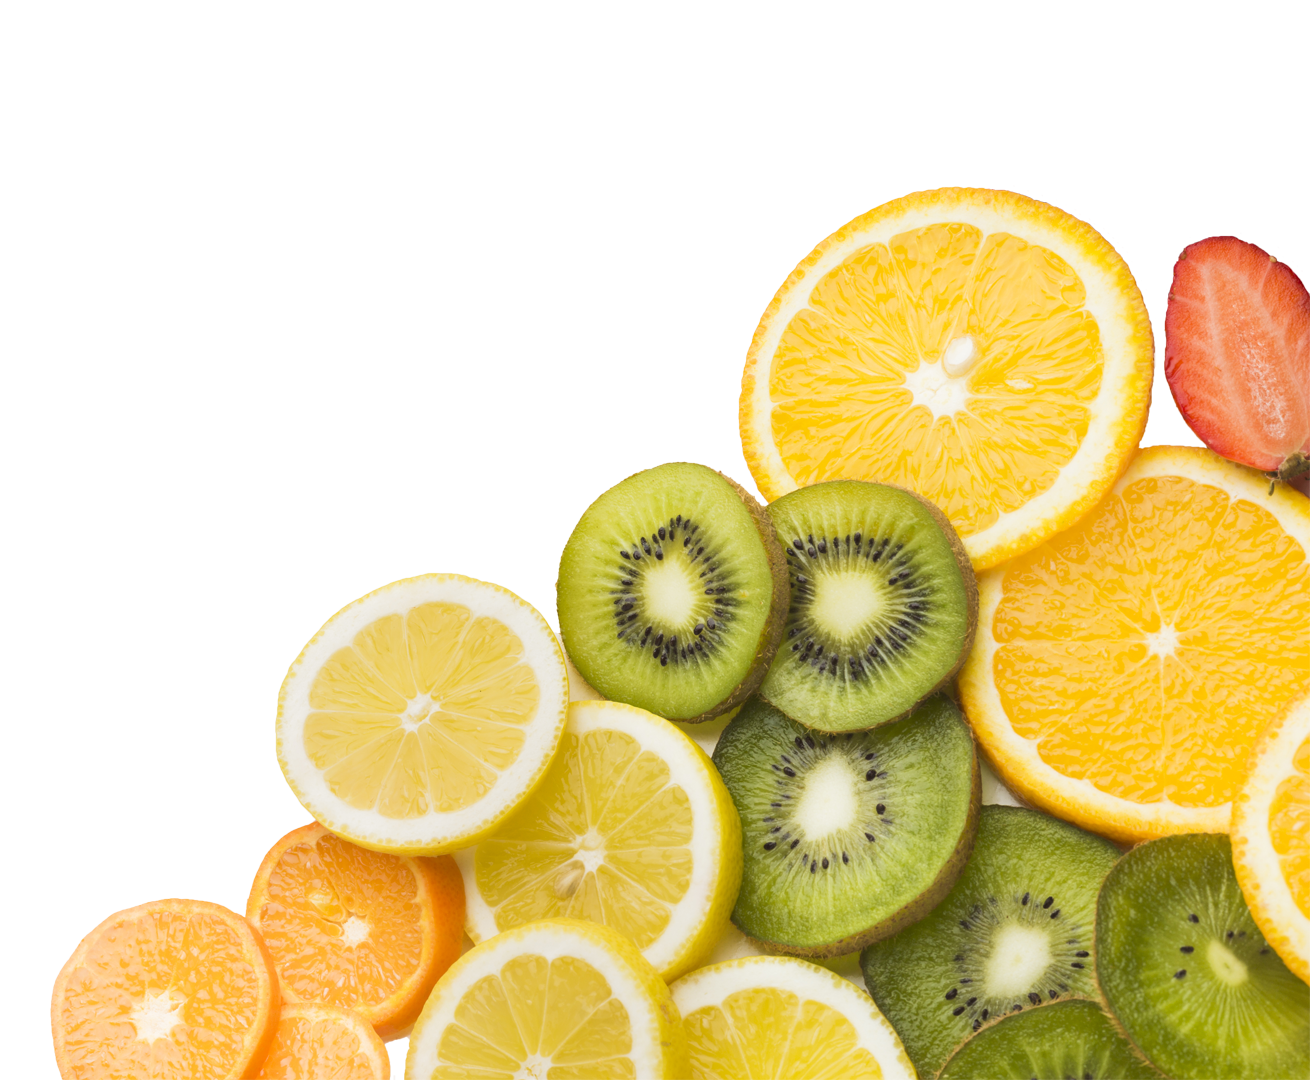
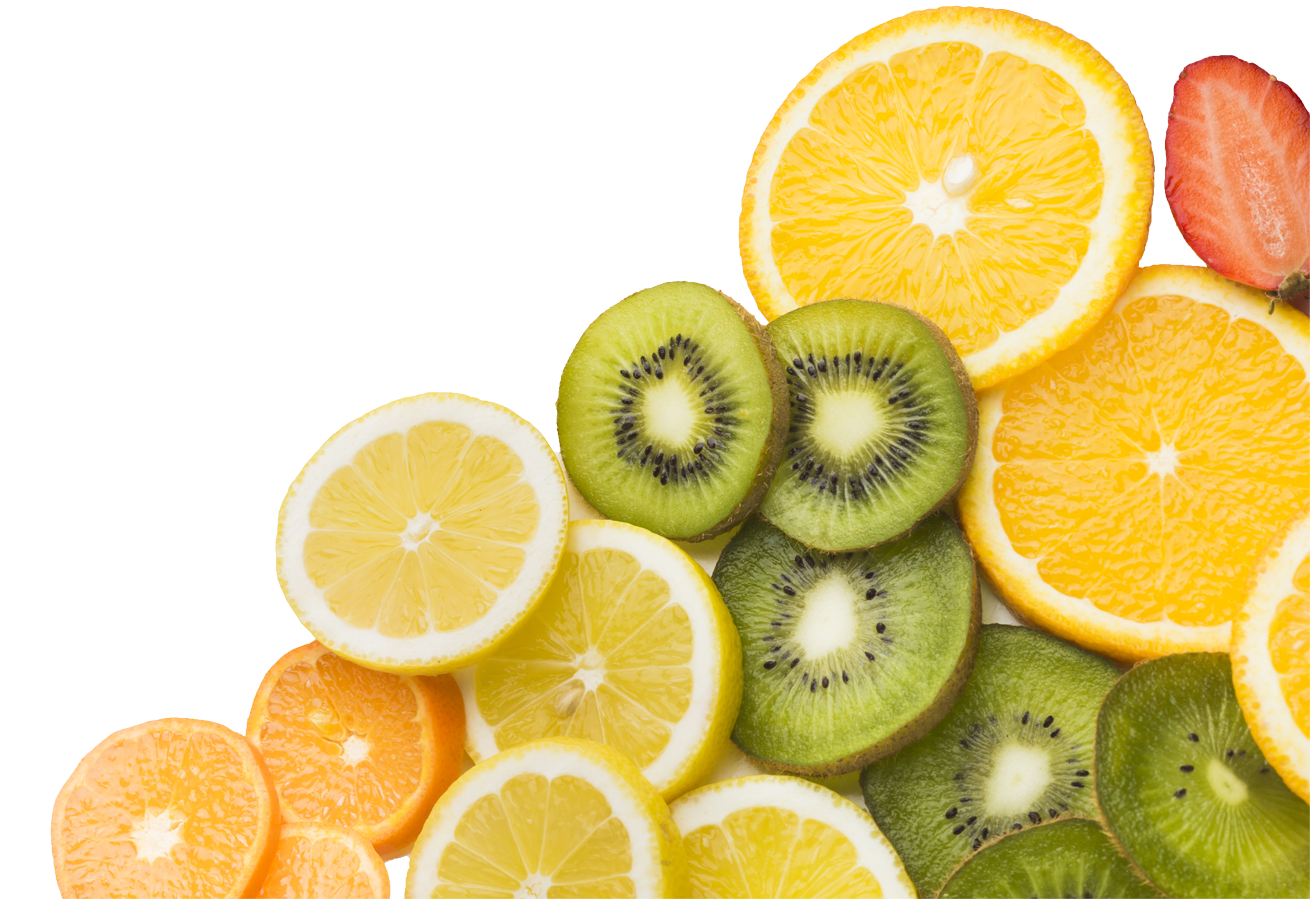
Home Page slightly done

diff --git a/CSS/navBar.css b/CSS/navBar.css
@@ -1,0 +1,99 @@
+@import url('https://fonts.googleapis.com/css2?family=Montserrat:wght@500&display=swap');
+
+* {
+    box-sizing: border-box;
+    margin: 0;
+    padding: 0;
+    /*background-color: #182b4d;*/
+}
+
+li, a {
+    font-family: "Poppins", sans-serif;
+    font-weight: 500;
+    font-size: 15px;
+    color: #3ab24c;
+    text-decoration: none;
+}
+
+header {
+    display: flex;
+    justify-content: center; /* Centers the entire content, including the logo */
+    align-items: center;
+    position: relative; /* Allows for absolute positioning of the logo */
+}
+
+.logo {
+    position: absolute;
+    left: 0; /* Ensures the logo stays on the left side */
+    margin-left: 100px; 
+    width: 250px;
+    height: auto;
+}
+
+.nav__links {
+    list-style: none;
+    display: flex; /* Use flexbox */
+    justify-content: center; /* Center the nav links horizontally */
+    margin: 0;
+}
+
+.nav__links li {
+    display: inline-block;
+    padding: 25px 35px;
+}
+
+.nav__links li a {
+    transition: all 0.3s ease 0s;
+}
+
+.nav__links li a:hover {
+    color: #0d7e07;
+}
+
+.current-page {
+    color: #0d5420;
+    font-weight: bold; 
+}
+
+.hamburger {
+    display: none;
+    flex-direction: column;
+    cursor: pointer;
+}
+
+.hamburger div {
+    width: 25px;
+    height: 3px;
+    background-color: #edf0f1;
+    margin: 3px 0;
+}
+
+@media screen and (max-width: 768px) {
+    .nav__container {
+        position: relative;
+    }
+
+    .nav__links {
+        display: none;
+        flex-direction: column;
+        align-items: center;
+        position: absolute;
+        top: 50%; 
+        left: 50%; 
+        transform: translate(-50%, -50%); /* This puts the menu in the center, I tried to put it in the right corner but it covered the hamburger icon, which didnt make it clickable anymore*/
+        background-color: #0a1d3f;
+        width: 90%; 
+        padding: 10px 0;
+        text-align: center;
+        /* box-shadow: 0 2px 1px -2px rgba(0, 0, 0, 1); */
+    }
+
+    .nav__links.show {
+        display: flex;
+    }
+
+    .nav__links li {
+        display: block;
+        padding: 10px 0;
+    }
+}

diff --git a/CSS/homePage.css b/CSS/homePage.css
@@ -2,6 +2,7 @@
 @import url('https://fonts.googleapis.com/css2?family=Poppins:wght@700&display=swap'); 
 
 
+
 body {
     font-family: "Poppins", sans-serif;
     margin: 0;
@@ -18,43 +19,45 @@ header {
     background-color: #fff;
 }
 
-.logo {
+ .logo {
     max-width: 150px;
     margin-left: 50px;
-}
+} 
 
 /* Section for Home-info */
 .Home-info {
     text-align: left;
-    padding: 40px 100px;
+    padding: 40px 150px;
     background-color: #fff;
 }
 
 .Home-info h1 {
-    font-size: 28px;
-    color: #3b6021;
+    font-size: 35px;
+    color: #000000;
     font-weight: 700;
     letter-spacing: 2px;
     max-width: 600px;
+    padding-top: 50px;
+    padding-bottom: 20px;;
 }
 
 .Home-info p {
-    font-size: 18px;
+    font-size: 16px;
     line-height: 1.6;
-    color: #333;
-    max-width: 800px;
+    color: #000000;
+    max-width: 700px;
+    padding-top: 0px;
+    margin-bottom: 10px;
 }
 
 .Home-info button {
     background-color: #3b6021;
     color: #fff;
     border: none;
-    padding: 10px 20px;
-    border-radius: 5px;
+    padding: 10px 40px;
+    border-radius: 50px;
     font-size: 18px;
     cursor: pointer;
-    text-transform: uppercase;
-    font-weight: bold;
     margin-top: 20px;
 }
 
@@ -63,12 +66,12 @@ header {
 }
 
 .Home-info img {
-    max-width: 100%;
+    max-width: 52%;
     height: auto;
     /*border-radius: 10px;*/
-    margin-top: -500px;
-    text-align: center;
-    margin-left: 650px;
+    margin-top: -420px;
+    margin-left: 700px;
+    padding-top: 0;
 }
 
 /* Footer */

diff --git a/index.html b/index.html
@@ -18,6 +18,7 @@
     </script> 
 
     <link rel = "stylesheet" href = "CSS/homePage.css">
+    <link rel = "stylesheet" href = "CSS/navBar.css">
 </head>
 <body>
     <header>
@@ -28,13 +29,13 @@
     </header>
 
     <section class = "Home-info">
-        <h1>UNLOCK THE NUTRITIONAL GOLDMINE HIDDEN IN EVERY FRUIT</h1>
-        <p> Fruits are nature's nutritional treasures, each offering essential vitamins, minerals, and antioxidants to support your health.
-            From boosting energy and immunity to aiding digestion, every fruit brings unique benefits. </p>
+        <h1>UNLOCK THE NUTRITIONAL POWER OF EVERY FRUIT</h1>
+        <p> Fruits are nature's health boosters, packed with essential vitamins, minerals, and antioxidants. From increasing energy to strenghtening
+            immunity, each fruit offers unique benefits. </p>
         <p> Discover how these delicious, nutrient-packed gems can unlock a healthier, more vibrant you. </p>
-        <a href="./Unlock/index.html"> <button>Unlock</button> </a>
+        <a href="./Unlock/index.html"> <button>UNLOCK</button> </a>
 
-        <img src = "Images/HomePage.png" alt="Picture of citrus fruits" width="800" height="600">
+        <img src = "Images/fruitperson.png" alt="Picture of citrus fruits" width="800" height="600">
         
     </section>
 
